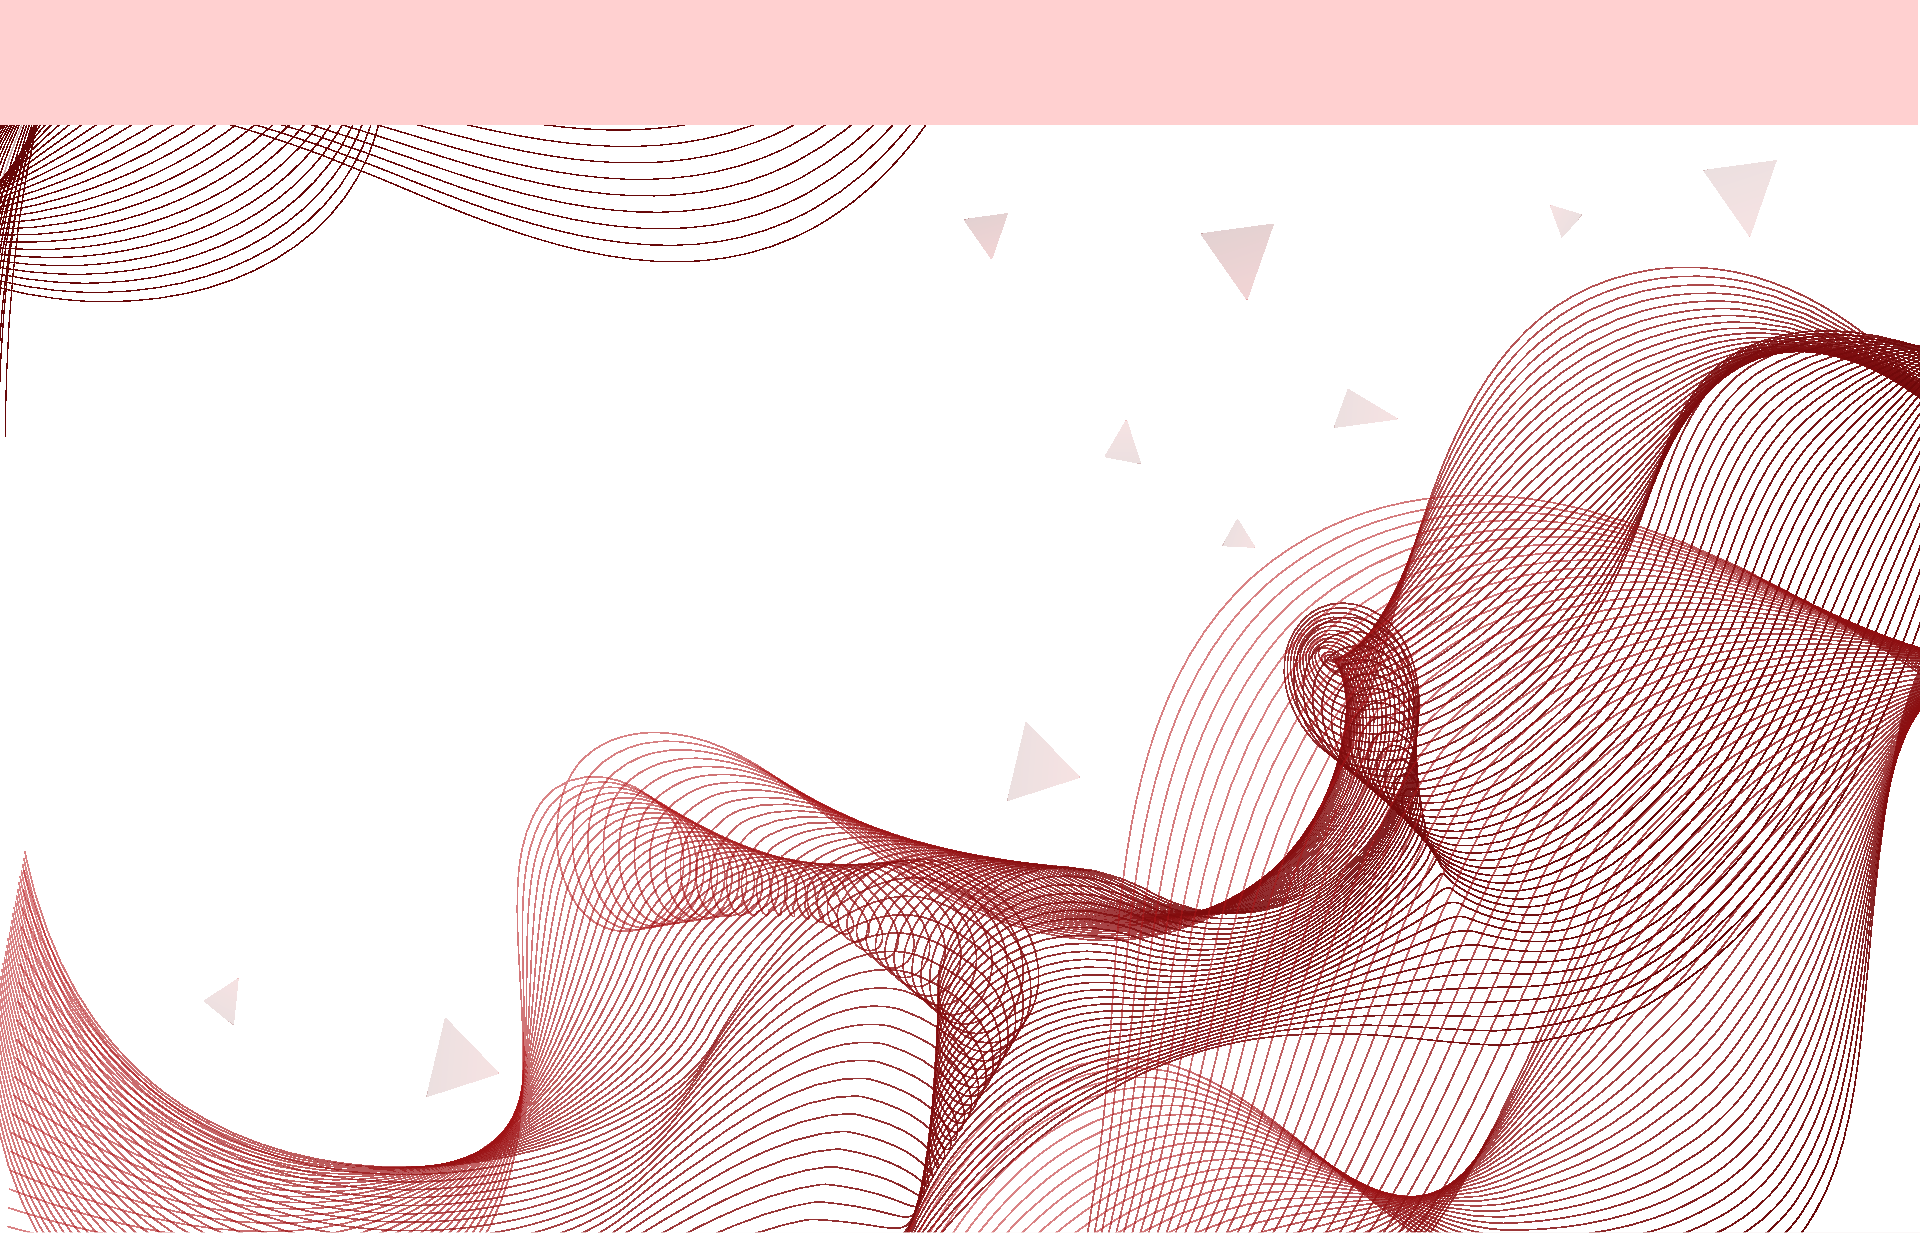
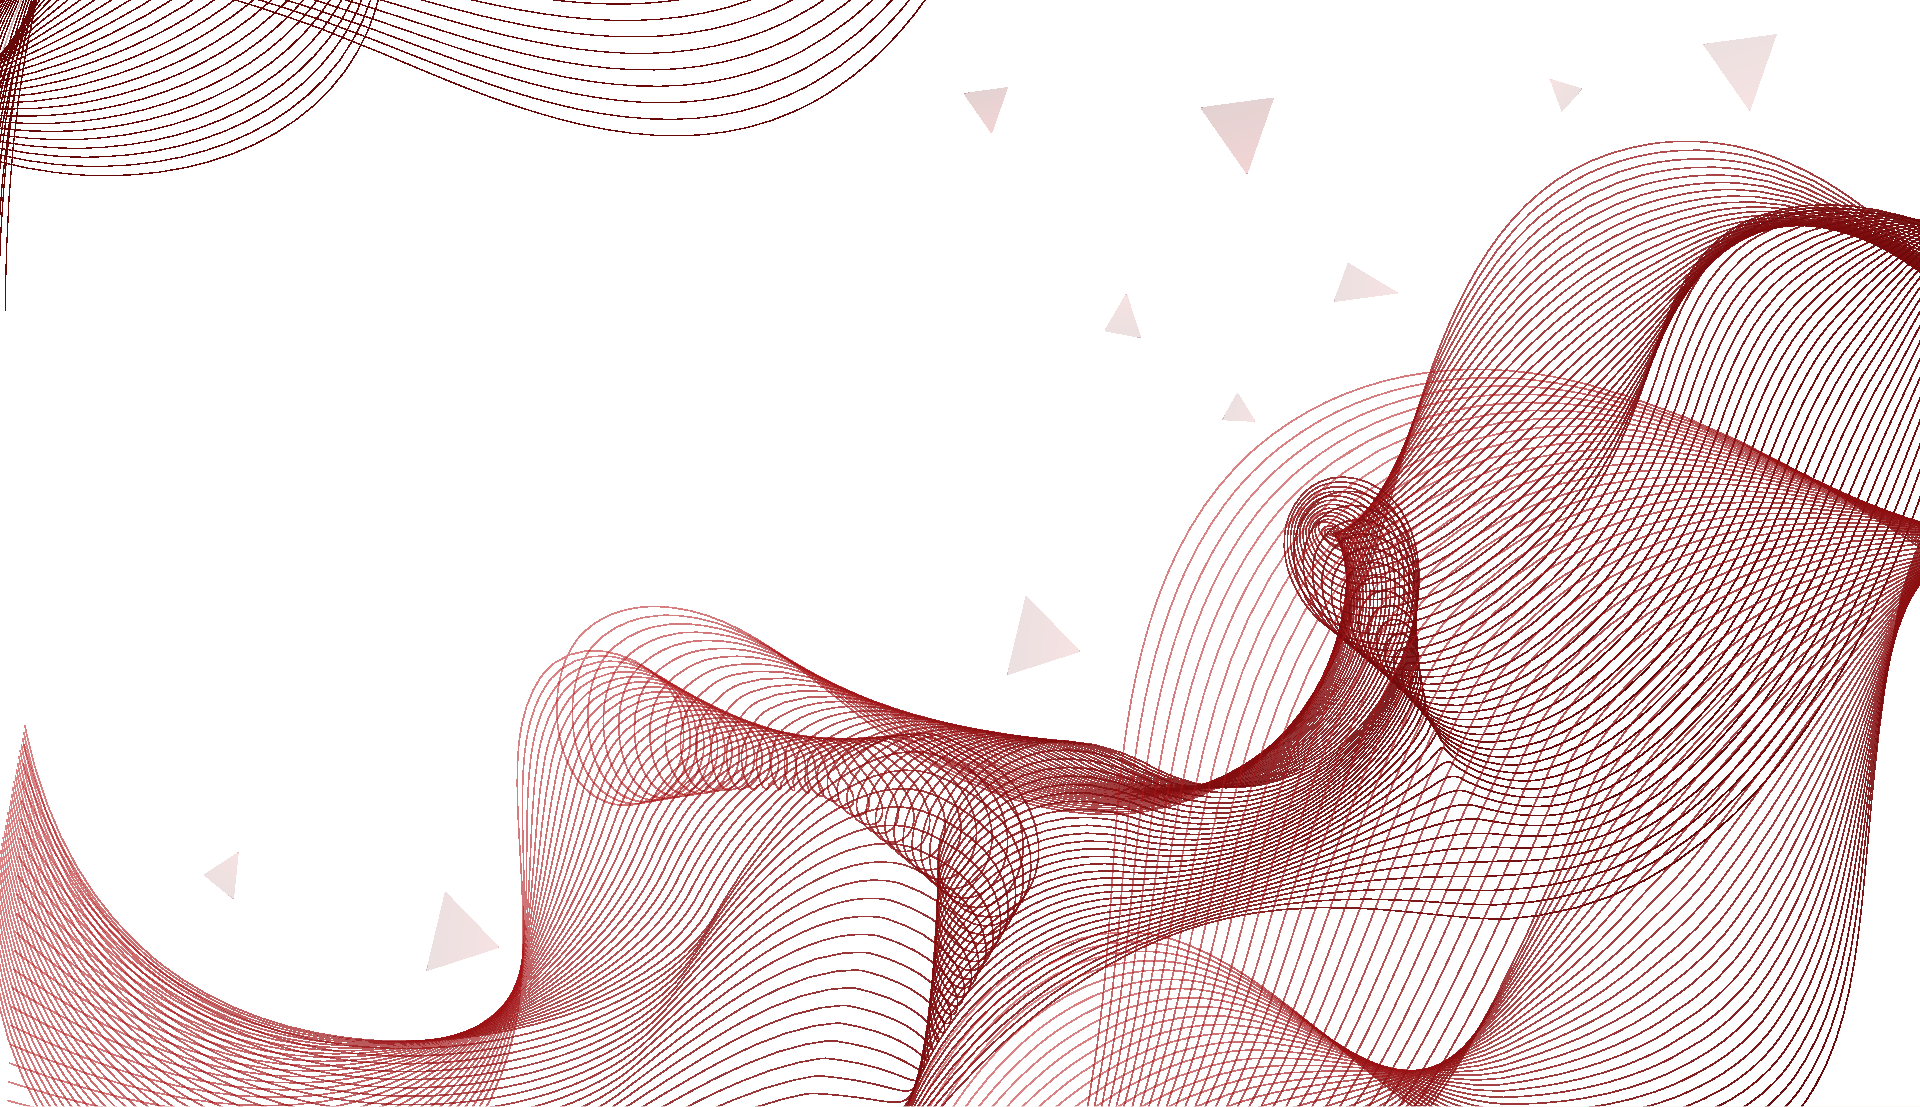
Avance en navbar y ajustes de estilos responsivos

diff --git a/src/app/pages/public/home/home.css b/src/app/pages/public/home/home.css
@@ -4,10 +4,9 @@
 html, body {
   height: 100%;
   width: 100%;
-  margin: 0;
   padding: 0;
-  font-family: "Inter", sans-serif;
-  background-color: #fff;
+  margin: 0;
+  box-sizing: border-box;
 }
 
 /* ==============================
@@ -19,18 +18,17 @@ html, body {
   justify-content: center;
   align-items: flex-start;
   min-height: 95vh;
-  padding: 100px 70px 70px;
+  padding: 0 5% 70px;
   text-align: left;
-  /*background-image: url("assets/img/challenge.png");*/
+  background-image: url("/assets/img/challenge.png");
   background-size: cover;
   background-position: top center;
   background-repeat: no-repeat;
 }
-
 .principal-info h3 {
   color: #161a1d;
   font-weight: bold;
-  font-size: 28px;
+  font-size: clamp(20px, 2vw, 32px);
   margin-bottom: 20px;
   font-family: "M PLUS Rounded 1c", sans-serif;
 }
@@ -42,14 +40,14 @@ html, body {
 
 .principal-info h1 {
   color: #333;
-  font-size: 22px;
+  font-size: clamp(18px, 1.8vw, 26px);
   margin-bottom: 15px;
   font-family: "Advent Pro", sans-serif;
 }
 
 .principal-info p {
   color: #161a1d;
-  font-size: 16px;
+  font-size: clamp(14px, 1.2vw, 18px);
   line-height: 1.6;
   max-width: 600px;
   font-family: "Afacad", sans-serif;
@@ -77,7 +75,6 @@ html, body {
    SECCIÓN SERVICIOS
 ============================== */
 .servicios-section {
-  width: 100%;
   margin: 0 auto;
   padding: 60px 20px;
   background-color: #ffffff;
@@ -144,10 +141,10 @@ html, body {
    SECCIÓN NOSOTROS
 ============================== */
 .nosotros-section {
-  width: 100%;
   margin: 0 auto;
-  padding: 60px 20px;
+  padding: 60px 5%;
   background-color: rgba(186, 24, 27, 0.15);
+  box-sizing: border-box;
 }
 
 .nosotros-info {
@@ -155,6 +152,8 @@ html, body {
   align-items: center;
   justify-content: space-between;
   flex-wrap: wrap;
+  gap: 30px;
+  margin: 0 auto;
 }
 
 .nosotros-texto {
@@ -167,6 +166,13 @@ html, body {
 
 .nosotros-texto strong {
   color: #ba181b;
+}
+.nosotros-info img {
+  max-width: 100%;
+  height: auto;
+  border-radius: 10px;
+  flex: 1 1 400px;
+  object-fit: contain;
 }
 
 /* ==============================
@@ -188,7 +194,9 @@ html, body {
 
 .soporte-item {
   display: inline-block;
+  vertical-align: top;
   width: 250px;
+  height: 180px;
   background-color: #fff;
   text-decoration: none;
   border-radius: 10px;
@@ -197,6 +205,7 @@ html, body {
   margin: 15px;
   transition: transform 0.3s ease;
 }
+
 
 .soporte-item:hover {
   transform: translateY(-5px);
@@ -235,9 +244,9 @@ html, body {
 ============================== */
 @media (max-width: 768px) {
   .principal-section {
-    padding: 120px 30px 50px;
+    padding: 1px 30px 50px;
     align-items: center;
-    text-align: center;
+    text-align: left;
   }
 
   .principal-info p {
@@ -255,5 +264,6 @@ html, body {
 
   .soporte-item {
     width: 80%;
+    height: auto;
   }
 }

diff --git a/src/app/components/footer/footer.css b/src/app/components/footer/footer.css
@@ -1,0 +1,137 @@
+.footer {
+  background-color: #263238;
+  color: #f5f7fa;
+  padding: 50px 10%;
+  font-family: 'Inter', sans-serif;
+}
+
+.footer-container {
+  display: flex;
+  flex-wrap: wrap;
+  justify-content: space-between;
+  gap: 40px;
+}
+
+/* Columna 1 */
+.footer-company {
+  flex: 1 1 250px;
+}
+
+.footer-logo {
+  width: 180px;
+  height: auto;
+  margin-bottom: 10px;
+  transform: scale(1.5);
+  transform-origin: left ;
+}
+
+.copyright {
+  font-size: 14px;
+  margin: 8px 0;
+}
+
+.follow {
+  font-size: 14px;
+  margin-bottom: 10px;
+}
+
+.social-links a {
+  color: #ffffff;
+  opacity: 0.7;
+  margin-right: 10px;
+  font-size: 20px;
+  transition: opacity 0.3s;
+}
+
+.social-links a:hover {
+  opacity: 1;
+}
+
+/* Columna 2 */
+.footer-links {
+  flex: 2 1 400px;
+  display: flex;
+  justify-content: space-between;
+  flex-wrap: wrap;
+}
+
+.footer-links h3 {
+  color: #ffffff;
+  font-size: 18px;
+  margin-bottom: 10px;
+}
+
+.footer-links ul {
+  list-style: none;
+  padding: 0;
+}
+
+.footer-links li {
+  margin-bottom: 6px;
+}
+
+.footer-links a {
+  color: #f5f7fa;
+  text-decoration: none;
+  font-size: 14px;
+  opacity: 0.8;
+  transition: opacity 0.3s;
+}
+
+.footer-links a:hover {
+  opacity: 1;
+}
+
+/* Columna 3 */
+.footer-newsletter {
+  flex: 1 1 250px;
+}
+
+.footer-newsletter h3 {
+  color: #ffffff;
+  font-size: 18px;
+  margin-bottom: 15px;
+}
+
+.newsletter-box {
+  display: flex;
+  align-items: center;
+  background-color: rgba(255, 255, 255, 0.2);
+  border-radius: 8px;
+  overflow: hidden;
+}
+
+.newsletter-box input {
+  border: none;
+  background: transparent;
+  color: #fff;
+  padding: 10px;
+  width: 100%;
+  outline: none;
+}
+
+.newsletter-box input::placeholder {
+  color: #d9dbe1;
+}
+
+.newsletter-box button {
+  background: transparent;
+  border: none;
+  color: white;
+  padding: 0 10px;
+  cursor: pointer;
+  font-size: 20px;
+}
+
+/* Responsive */
+@media (max-width: 768px) {
+  .footer-container {
+    flex-direction: column;
+    align-items: flex-start;
+  }
+
+  .footer-links {
+    flex-direction: column;
+    gap: 20px;
+  }
+}

diff --git a/src/app/components/footer/footer.html b/src/app/components/footer/footer.html
@@ -1,1 +1,44 @@
-<p>footer works!</p>
+<footer class="footer">
+  <div class="footer-container">
+    <!-- Columna 1: Logo + Derechos -->
+    <div class="footer-company">
+      <img src="assets/img/logo_at.png" alt="AuthenTrace" class="footer-logo" />
+      <p class="copyright">© 2024 AuthenTrace. Todos los derechos reservados.</p>
+      <p class="follow">Síguenos!</p>
+      <div class="social-links">
+        <a href="#"><i class="ri-facebook-fill"></i></a>
+        <a href="#"><i class="ri-twitter-fill"></i></a>
+        <a href="#"><i class="ri-instagram-line"></i></a>
+      </div>
+    </div>
+
+    <!-- Columna 2: Enlaces -->
+    <div class="footer-links">
+      <div>
+        <h3>Empresa</h3>
+        <ul>
+          <li><a href="#">Acerca de Nosotros</a></li>
+          <li><a href="#">Contáctanos</a></li>
+        </ul>
+      </div>
+      <div>
+        <h3>Soporte</h3>
+        <ul>
+          <li><a href="#">Centro de Ayuda</a></li>
+          <li><a href="#">Términos de Servicio</a></li>
+          <li><a href="#">Política de Privacidad</a></li>
+        </ul>
+      </div>
+    </div>
+
+    <!-- Columna 3: Newsletter -->
+    <div class="footer-newsletter">
+      <h3>Mantente al día</h3>
+      <div class="newsletter-box">
+        <input type="email" placeholder="Tu correo electrónico" />
+        <button><i class="ri-send-plane-fill"></i></button>
+      </div>
+    </div>
+  </div>
+</footer>
+

diff --git a/src/index.html b/src/index.html
@@ -1,13 +1,18 @@
 <!doctype html>
 <html lang="en">
 <head>
-  <meta charset="utf-8">
-  <title>AppAutherntraceFrontend</title>
-  <base href="/">
-  <meta name="viewport" content="width=device-width, initial-scale=1">
-  <link rel="icon" type="image/x-icon" href="favicon.ico">
+  <meta charset="utf-8" />
+  <title>AuthenTrace</title>
+  <base href="/" />
+  <meta name="viewport" content="width=device-width, initial-scale=1" />
+  <link rel="icon" type="image/x-icon" href="assets/favicon.ico" />
+  <link rel="stylesheet" href="https://unpkg.com/remixicon@2.5.0/fonts/remixicon.css" />
+  <link
+    href="https://fonts.googleapis.com/css2?family=Inter&family=M+PLUS+Rounded+1c&family=Advent+Pro&family=Afacad&display=swap"
+    rel="stylesheet"
+  />
 </head>
 <body>
-  <app-root></app-root>
+<app-root></app-root>
 </body>
 </html>

diff --git a/src/app/pages/public/home/home.html b/src/app/pages/public/home/home.html
@@ -29,7 +29,7 @@
 
     <div class="button-icon-container">
       <div class="icono-group left">
-        <img height="40" width="50" src="assets/img/challenge.png" alt="" />
+        <img height="40" width="50" src="assets/img/icono.png" alt="" />
         <img height="40" width="50" src="assets/img/icono.png" alt="" />
       </div>
 
